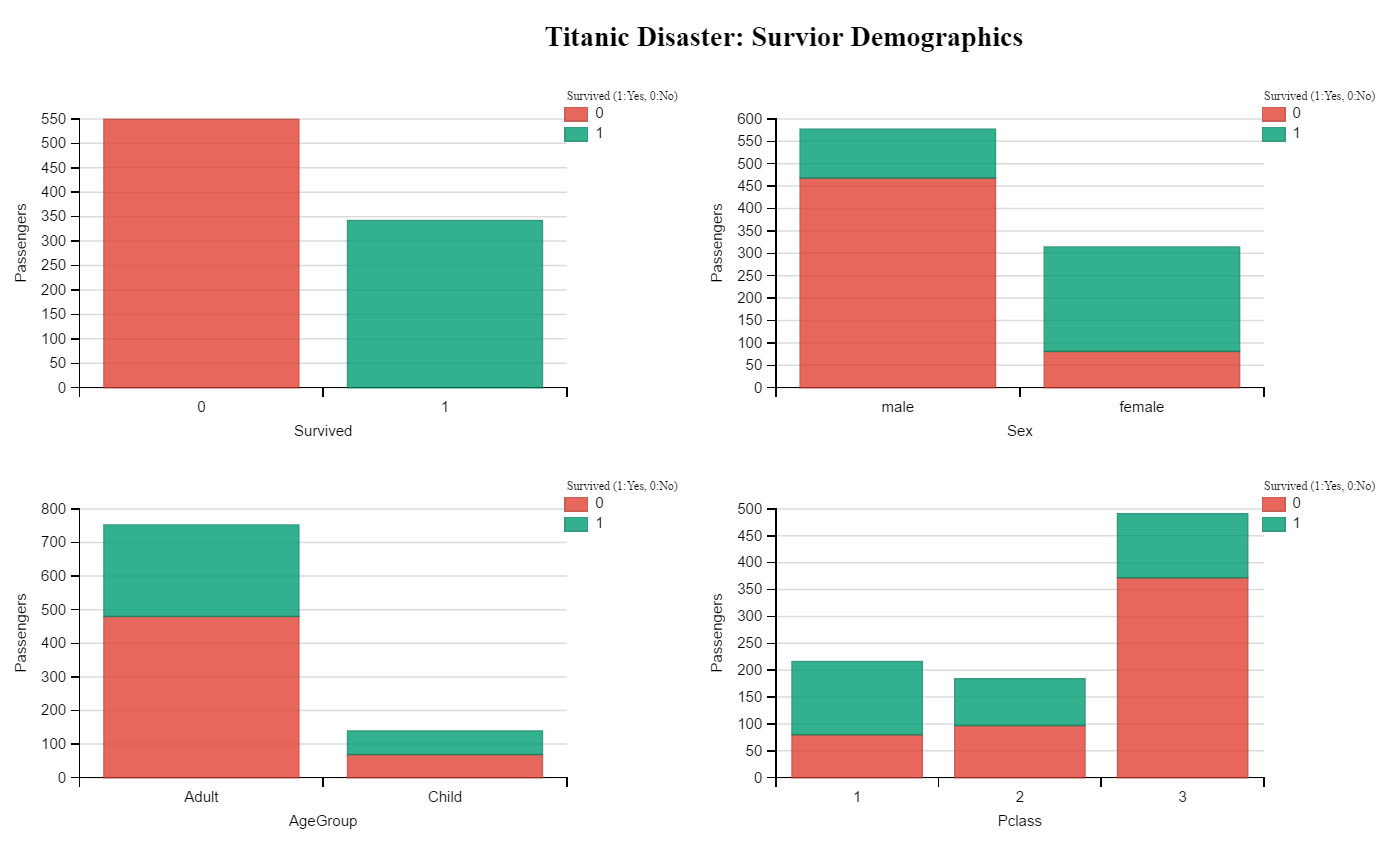
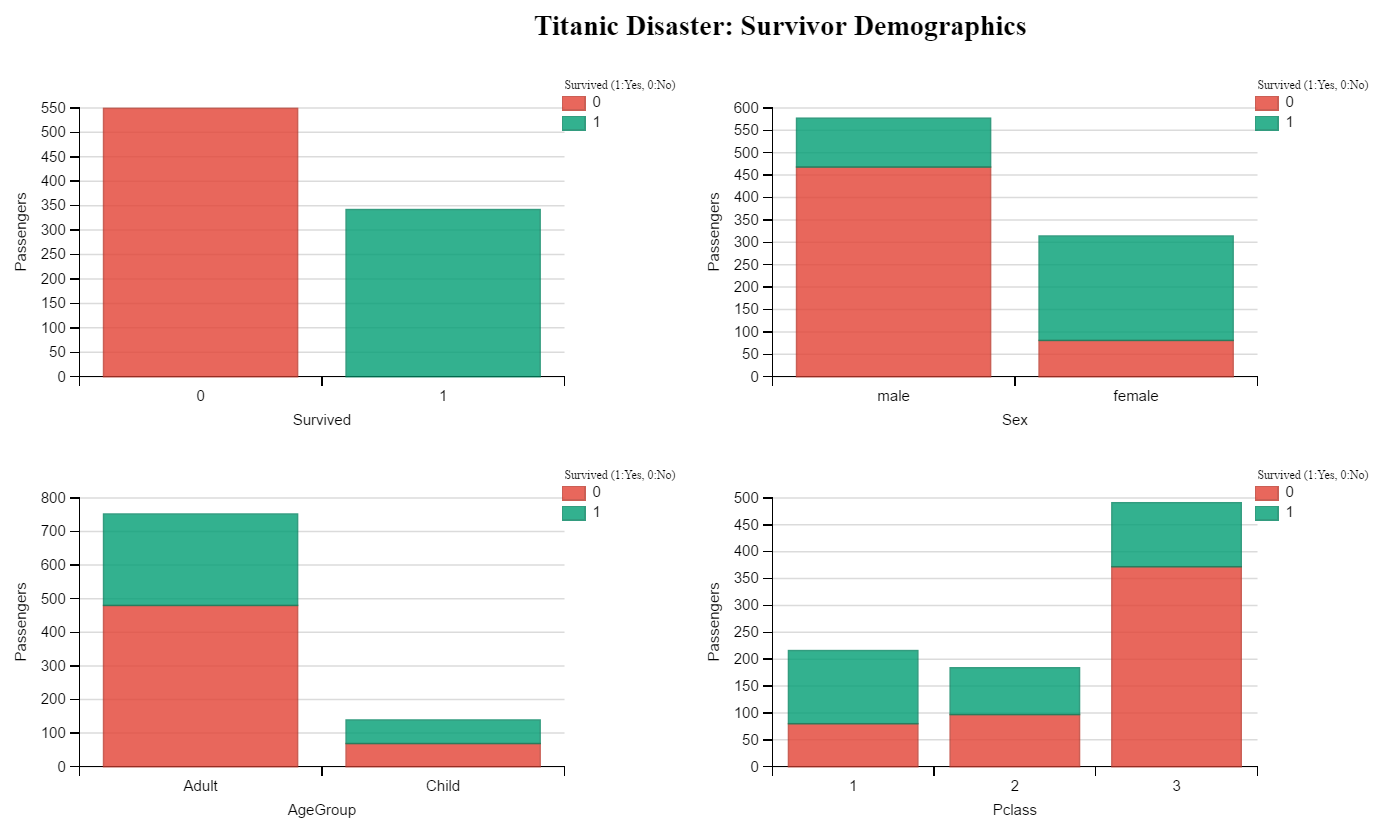
P6 Final Project: Combine graphs into one graph with interactive selection

diff --git a/project_P6/index.html b/project_P6/index.html
@@ -9,6 +9,34 @@
     h3 {
     text-align: center;
     }
+
+    div.categories_buttons {
+      position: fixed;
+      top: 15%;
+      left: 60%;
+      //background-color: rgb(251, 201, 127);
+      padding: 3px;
+      margin: 7px;
+      // border: 1px solid black;
+      // border-radius: 10px;
+    }
+
+    div.indiv_btn {
+      background-color: rgb(251, 201, 127);
+      border: 1px solid black;
+      border-radius: 5px;
+      font-size: small;
+    }
+
+    div.count_percentage_buttons {
+      position: fixed;
+      top: 30%;
+      left: 60%;
+      //background-color: rgb(251, 201, 127);
+      padding: 3px;
+      margin: 7px;
+    }
+
   </style>
 </head>
 <body id="chartContainer" style="height: 95vh">
@@ -20,10 +48,10 @@
 
     // Create SVG containers to hold the charts
     // Use % of width and height to make charts responsive (resize according to window size)
-    var svg1 = dimple.newSvg("body", "45%", "45%");
-    var svg2 = dimple.newSvg("body", "45%", "45%");
-    var svg3 = dimple.newSvg("body", "45%", "45%");
-    var svg4 = dimple.newSvg("body", "45%", "45%");
+    var svg1 = dimple.newSvg("body", "60%", "60%");
+    //var svg2 = dimple.newSvg("body", "45%", "45%");
+    //var svg3 = dimple.newSvg("body", "45%", "45%");
+    //var svg4 = dimple.newSvg("body", "45%", "45%");
 
     var chart1, chart2, chart3, chart4;
     var data = [];
@@ -37,17 +65,19 @@
          val.AgeGroup = ( val.Age != "" && val.Age <= 18 ? "Child" : "Adult");
          return val; })
 
-       chart1 = draw_chart(data, svg1, "Survived");
-       chart2 = draw_chart(data, svg2, "Sex");
-       chart3 = draw_chart(data, svg3, "AgeGroup");
-       chart4 = draw_chart(data, svg4, "Pclass");
+       chart1 = draw_chart(data, svg1, "Sex", "Count");
+       //chart1 = draw_chart(data, svg1, "Survived");
+       //chart2 = draw_chart(data, svg2, "Sex");
+       //chart3 = draw_chart(data, svg3, "AgeGroup");
+       //chart4 = draw_chart(data, svg4, "Pclass");
       });
 
     // Function to create and drawing a chart using dimple
     // data - data array
     // svg - svg container
     // xVar - categorical variable from "data" to plot on x-Axis
-    function draw_chart(data, svg, xVar) {
+    // CountOrPercentage - "Count" or "Percentage"
+    function draw_chart(data, svg, xVar, CountOrPercentage) {
       var chart = new dimple.chart(svg, data);
       chart.width = "70%";
       chart.height = "70%";
@@ -56,8 +86,14 @@
 
       // We are using "PassengerId" for y-axis to allow us to uniquely
       // count number of passengers and not for their Id itself!
-      var y = chart.addMeasureAxis("y", "PassengerId");
-      y.title = "Passengers"
+      if( CountOrPercentage == "Count" ) {
+        var y = chart.addMeasureAxis("y", "PassengerId");
+        y.title = "Number of Passengers";
+      }
+      else {
+        var y = chart.addPctAxis("y", "PassengerId");
+        y.title = "Percentage of Passengers";
+      }
 
       // Draw stacked column bar grouped by count of survival status
       var mySeries = chart.addSeries(["Survived"], dimple.plot.bar);
@@ -88,10 +124,78 @@
     // After resize of browser window, do a fast redraw without worrying of data change
     window.onresize = function () {
       chart1.draw(0, true);
-      chart2.draw(0, true);
-      chart3.draw(0, true);
-      chart4.draw(0, true);
+      //chart2.draw(0, true);
+      //chart3.draw(0, true);
+      //chart4.draw(0, true);
     };
+
+    var categories = [ "Sex", "AgeGroup", "Pclass" ];
+    var current_category = "Sex";
+    var current_count_percentage = "Count";
+
+    var cat_buttons = d3.select("body")
+            .append("div")
+            .attr("class", "categories_buttons")
+            .selectAll("div")
+            .data(categories)
+            .enter()
+            .append("div")
+            .attr("class", "indiv_btn")
+            .text(function(d) {
+                return d;
+            });
+
+    cat_buttons.on("click", function(d) {
+        d3.select(".categories_buttons")
+          .selectAll("div")
+          .transition()
+          .duration(500)
+          .style("color", "black")
+          .style("background", "rgb(251, 201, 127)");
+
+        d3.select(this)
+          .transition()
+          .duration(500)
+          .style("background", "lightBlue")
+          .style("color", "white");
+
+        svg1.selectAll("*").remove();
+        chart1 = draw_chart(data, svg1, d, current_count_percentage);
+        current_category = d;
+    });
+
+    var count_percentage = [ "Count", "Percentage" ];
+    var count_buttons = d3.select("body")
+            .append("div")
+            .attr("class", "count_percentage_buttons")
+            .selectAll("div")
+            .data(count_percentage)
+            .enter()
+            .append("div")
+            .attr("class", "indiv_btn")
+            .text(function(d) {
+                return d;
+            });
+
+    count_buttons.on("click", function(d) {
+        d3.select(".count_percentage_buttons")
+          .selectAll("div")
+          .transition()
+          .duration(500)
+          .style("color", "black")
+          .style("background", "rgb(251, 201, 127)");
+
+        d3.select(this)
+          .transition()
+          .duration(500)
+          .style("background", "lightBlue")
+          .style("color", "white");
+
+        svg1.selectAll("*").remove();
+        chart1 = draw_chart(data, svg1, current_category, d);
+        current_count_percentage = d;
+    });
+
   </script>
 </body>
 </html>
